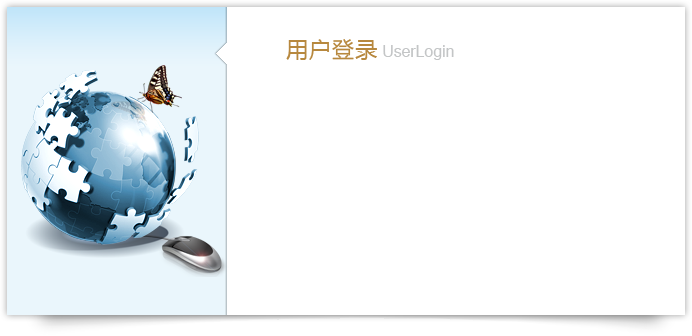
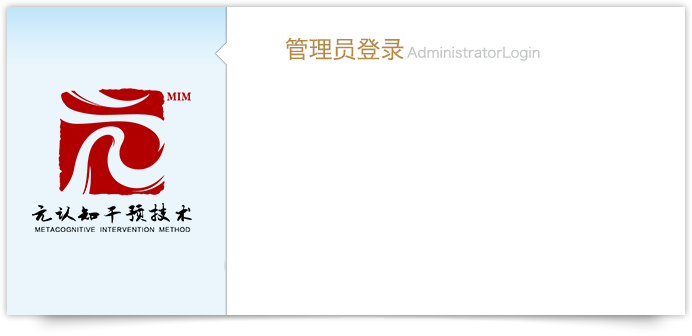
company 0308

Changed region(s): [[0.0303, 0.1786, 0.3338, 0.8333], [0.3945, 0.119, 0.789, 0.1786]]

diff --git a/public/admin/css/login.css b/public/admin/css/login.css
@@ -19,12 +19,12 @@ h2{font-weight:normal;}
 
 
 /*cloud*/
-
+.clearfix:after{content:".";display:block;height:0;clear:both;visibility:hidden}
+.clearfix{*+height:1%;}
 #mainBody {width:100%;height:100%;position:absolute;z-index:-1;}
 .cloud {position:absolute;top:0px;left:0px;width:100%;height:100%;background:url(images/cloud.png) no-repeat;z-index:1;opacity:0.5;}
 #cloud2 {z-index:2;}
-.clearfix:after{content:".";display:block;height:0;clear:both;visibility:hidden}
-.clearfix{*+height:1%;}
+
 .red{color:#cc0000;}
 /*login*/
 .logintop{height:47px; position:absolute; top:0; background:url(images/loginbg1.png) repeat-x;z-index:100; width:100%;}

diff --git a/Home/View/header.html b/Home/View/header.html
@@ -4,7 +4,7 @@
         <div class=" header-wrap">
             <div class="header-box clearfix">
                 <div class="row">
-                    <div class="col-sm-6"><a href="{$Think.const.SITE_URL}" class="logo"><img src="{$Think.const.WEB_URL}/images/logo.gif"></a> </div>
+                    <div class="col-sm-6"><a href="{$Think.const.SITE_URL}" class="logo"><img src="{$Think.const.WEB_URL}/images/logo.png"></a> </div>
                     <div class="col-sm-6 text-right">
                         <ul class="header-list">
 

diff --git a/Hbuild/View/Index/login.html b/Hbuild/View/Index/login.html
@@ -6,6 +6,8 @@
     <meta name="viewport" content="width=device-width, initial-scale=1.0" />
     <link rel="stylesheet" href="{$Think.const.ADMIN_URL}/css/login.css" />
     <link rel="stylesheet" href="{$Think.const.ADMIN_URL}/css/font-awesome.min.css" />
+    <link rel="stylesheet" href="{$Think.const.ADMIN_URL}/css/login1.css" />
+
 </head>
 
 <body style="background-color:#1DA1D8; background-image:url({$Think.const.ADMIN_URL}/images/light.png); background-repeat:no-repeat; background-position:center top; overflow:hidden;">

diff --git a/public/web/css/style.css b/public/web/css/style.css
@@ -42,7 +42,7 @@ a:hover{color: #fe336b;}
 
 
 /*banner*/
-#full-width-slider {  width: 100%; color: #000;}
+#full-width-slider {  width: 100%; color: #000; overflow:hidden;}
 .coloredBlock {   padding: 12px;  background: rgba(255,0,0,0.6);  color: #FFF;  width: 200px;  left: 20%; top: 5%;}
 .infoBlock {  position: absolute; left:0; bottom:0; width: 100%; background: #FFF;  overflow: hidden; }
 .infoBlockLeftBlack {  color: #FFF; background: #000; background: rgba(0,0,0,.3); height:50px;}

diff --git a/public/admin/css/login1.css b/public/admin/css/login1.css
@@ -1,0 +1,3 @@
+@charset "utf-8";
+.loginbox{background: url(images/logininfo1.png) no-repeat;}
+.systemlogo{background:url(images/loginlogo1.png) no-repeat center;}
